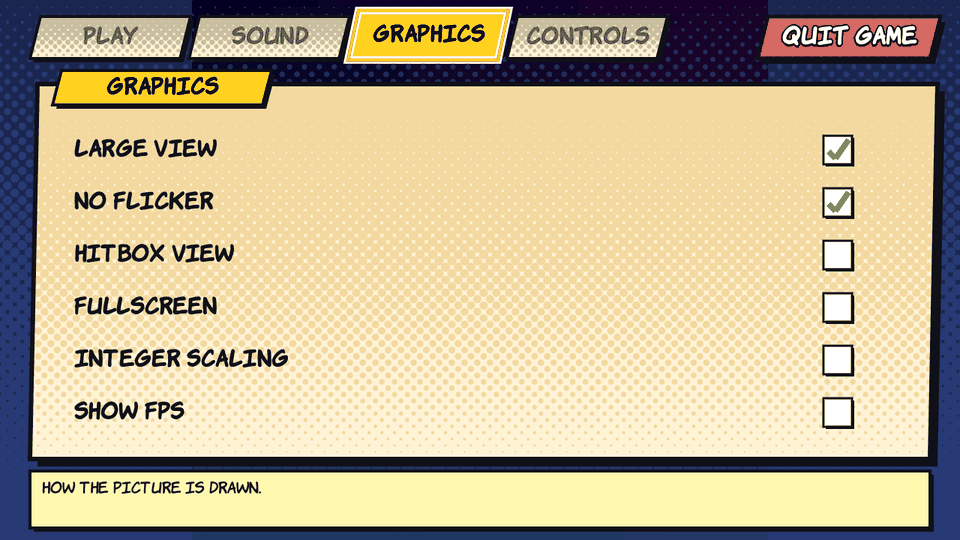
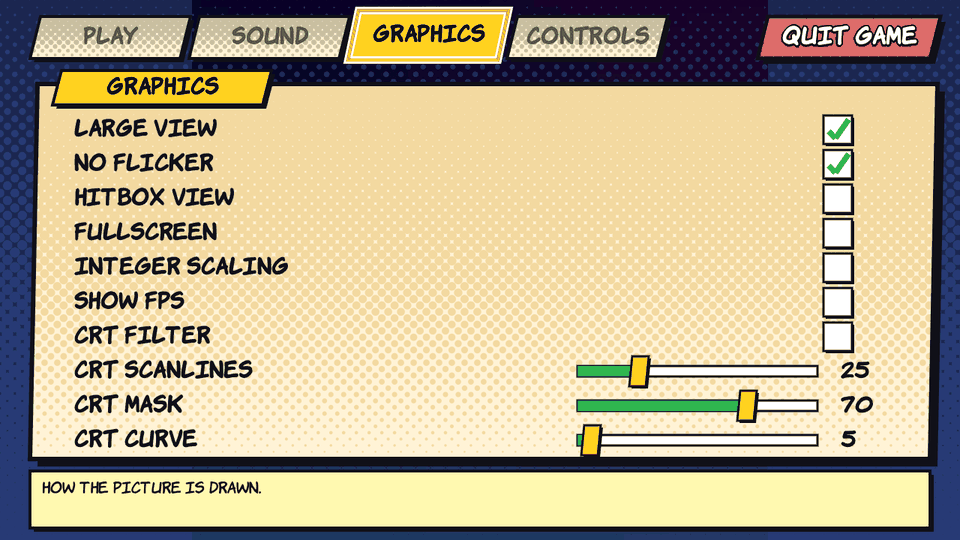
Menu: the edition that is not chosen is in grey; text 1989; README pictures updated (GRAPHICS with the CRT, PLAY in grey)

diff --git a/src/menu.c b/src/menu.c
@@ -405,7 +405,7 @@ static const char *focus_description(void) {
         return opt_info((OptId)focus_arg)->description;
     }
     if (focus_kind == K_EDITION) {
-        return focus_arg == 0 ? "Everything switched off: the game exactly as it was in 1990, checked against the original."
+        return focus_arg == 0 ? "Everything switched off: the game exactly as it was in 1989, checked against the original."
                               : "Every fix and option of the Whole Pizza edition switched on. Click a line to switch it off.";
     }
     if (focus_kind == K_LEVEL) {
@@ -574,8 +574,20 @@ static void draw_controls_page(const Env *e) {
         "OTHER KEYS: ESC MENU / P PAUSE / M MUTE / F5 RESTART / F9 REWIND / F10 CAPTURE / F11 FULLSCREEN.   A key that the pad uses loses its shortcut.");
 }
 
-static const char *const original_text = "THE GAME EXACTLY AS IT WAS IN 1990.";
+static const char *const original_text = "THE GAME EXACTLY AS IT WAS IN 1989.";
 static const char *const original_text2 = "CHECKED BIT FOR BIT AGAINST THE ORIGINAL (A 15 MINUTE SPEED RUN REPLAYS WITHOUT ONE DIFFERENCE).";
+
+/* A quad a little larger than another (its outline and the soft edge are outside it), to grey a panel entirely. */
+static UiQuad grown(const UiQuad *q, float px) {
+    float cx, cy;
+    centre(q, &cx, &cy);
+    UiQuad g = *q;
+    for (int i = 0; i < 4; i++) {
+        g.x[i] += (q->x[i] > cx ? px : -px);
+        g.y[i] += (q->y[i] > cy ? px : -px);
+    }
+    return g;
+}
 
 static void draw_edition(const Env *e, int ed, float x, float y, float w, float h) {
     UiQuad q = quad(e, x, y, w, h, 12);
@@ -635,6 +647,12 @@ static void draw_edition(const Env *e, int ed, float x, float y, float w, float 
                                ? opt_info((OptId)focus_arg)->description
                                : "Click a tick to switch one line on or off. Click anywhere else in the panel for the whole edition.";
         ui_text_wrapped(e->ui, font_body, 18.0f * e->s, X(e, x + w - 278), Y(e, y + h - 142), 242 * e->s, 23.0f * e->s, INK, text);
+    }
+    if (!selected && !(focus_kind == K_EDITION && focus_arg == ed) &&
+        !(ed == 1 && focus_in_whole_pizza())) { /* the edition that is not chosen is in grey (colour again when it has the focus or the mouse) */
+        UiQuad all = grown(&q, 8.0f * e->s), title = grown(&cap, 7.0f * e->s);
+        ui_desaturate_quad(e->ui, &all);
+        ui_desaturate_quad(e->ui, &title);
     }
 }
 

diff --git a/src/ui.c b/src/ui.c
@@ -114,6 +114,28 @@ static float quad_dist(const UiQuad *q, float px, float py) {
     return best;
 }
 
+void ui_desaturate_quad(Ui *ui, const UiQuad *q) {
+    float x0 = q->x[0], x1 = q->x[0], y0 = q->y[0], y1 = q->y[0];
+    for (int i = 1; i < 4; i++) {
+        x0 = q->x[i] < x0 ? q->x[i] : x0;
+        x1 = q->x[i] > x1 ? q->x[i] : x1;
+        y0 = q->y[i] < y0 ? q->y[i] : y0;
+        y1 = q->y[i] > y1 ? q->y[i] : y1;
+    }
+    int ix0 = (int)floorf(x0) < 0 ? 0 : (int)floorf(x0), ix1 = (int)ceilf(x1) > ui->w ? ui->w : (int)ceilf(x1);
+    int iy0 = (int)floorf(y0) < 0 ? 0 : (int)floorf(y0), iy1 = (int)ceilf(y1) > ui->h ? ui->h : (int)ceilf(y1);
+    for (int y = iy0; y < iy1; y++) {
+        for (int x = ix0; x < ix1; x++) {
+            if (!ui_quad_contains(q, (float)x + 0.5f, (float)y + 0.5f)) {
+                continue;
+            }
+            uint32_t c = ui->px[(size_t)y * (size_t)ui->w + (size_t)x];
+            uint32_t lum = (299u * ((c >> 16) & 255u) + 587u * ((c >> 8) & 255u) + 114u * (c & 255u)) / 1000u;
+            ui->px[(size_t)y * (size_t)ui->w + (size_t)x] = (lum << 16) | (lum << 8) | lum;
+        }
+    }
+}
+
 int ui_quad_contains(const UiQuad *q, float x, float y) {
     return quad_dist(q, x, y) >= 0.0f;
 }

diff --git a/src/ui.h b/src/ui.h
@@ -32,6 +32,8 @@ void ui_halftone_quad(Ui *ui, const UiQuad *q, uint32_t colour, float cell, floa
 void ui_fill_burst(Ui *ui, float cx, float cy, float r_out, float r_in, int points, float rot, uint32_t colour); /* the pointed star of a comic-book "POW!" */
 void ui_fill_triangle(Ui *ui, float x0, float y0, float x1, float y1, float x2, float y2, uint32_t colour);
 int ui_quad_contains(const UiQuad *q, float x, float y);
+/* The pixels inside the quad lose their colour (they become the grey of their brightness). */
+void ui_desaturate_quad(Ui *ui, const UiQuad *q);
 
 /* Fonts: TrueType files read once. `size` is the height of the em in pixels. */
 UiFont *ui_font_load(const char *path); /* NULL if the file cannot be read */

diff --git a/README.md b/README.md
@@ -42,7 +42,7 @@ The keys can be changed in the menu (CONTROLS page).
 Esc opens it (it is also the launcher at start). Mouse, keyboard and pad all work.
 
 - **PLAY**: choose the edition, the extras and the level, then play or resume.
-  **Original** is the game exactly as it was in 1990. **Whole Pizza** switches on a set of fixes and options (see [FIXES.md](FIXES.md)); click a tick to switch one off.
+  **Original** is the game exactly as it was in 1989. **Whole Pizza** switches on a set of fixes and options (see [FIXES.md](FIXES.md)); click a tick to switch one off. The edition that is not chosen is shown in grey (in colour again when you point at it).
 - **SOUND**: volume, mute.
 - **GRAPHICS**: large view, no flicker, hitbox view, fullscreen, integer scaling, show FPS, and a **CRT filter** (scanlines, phosphor mask, curved screen).
 - **CONTROLS**: change the keyboard keys, see the pad.
